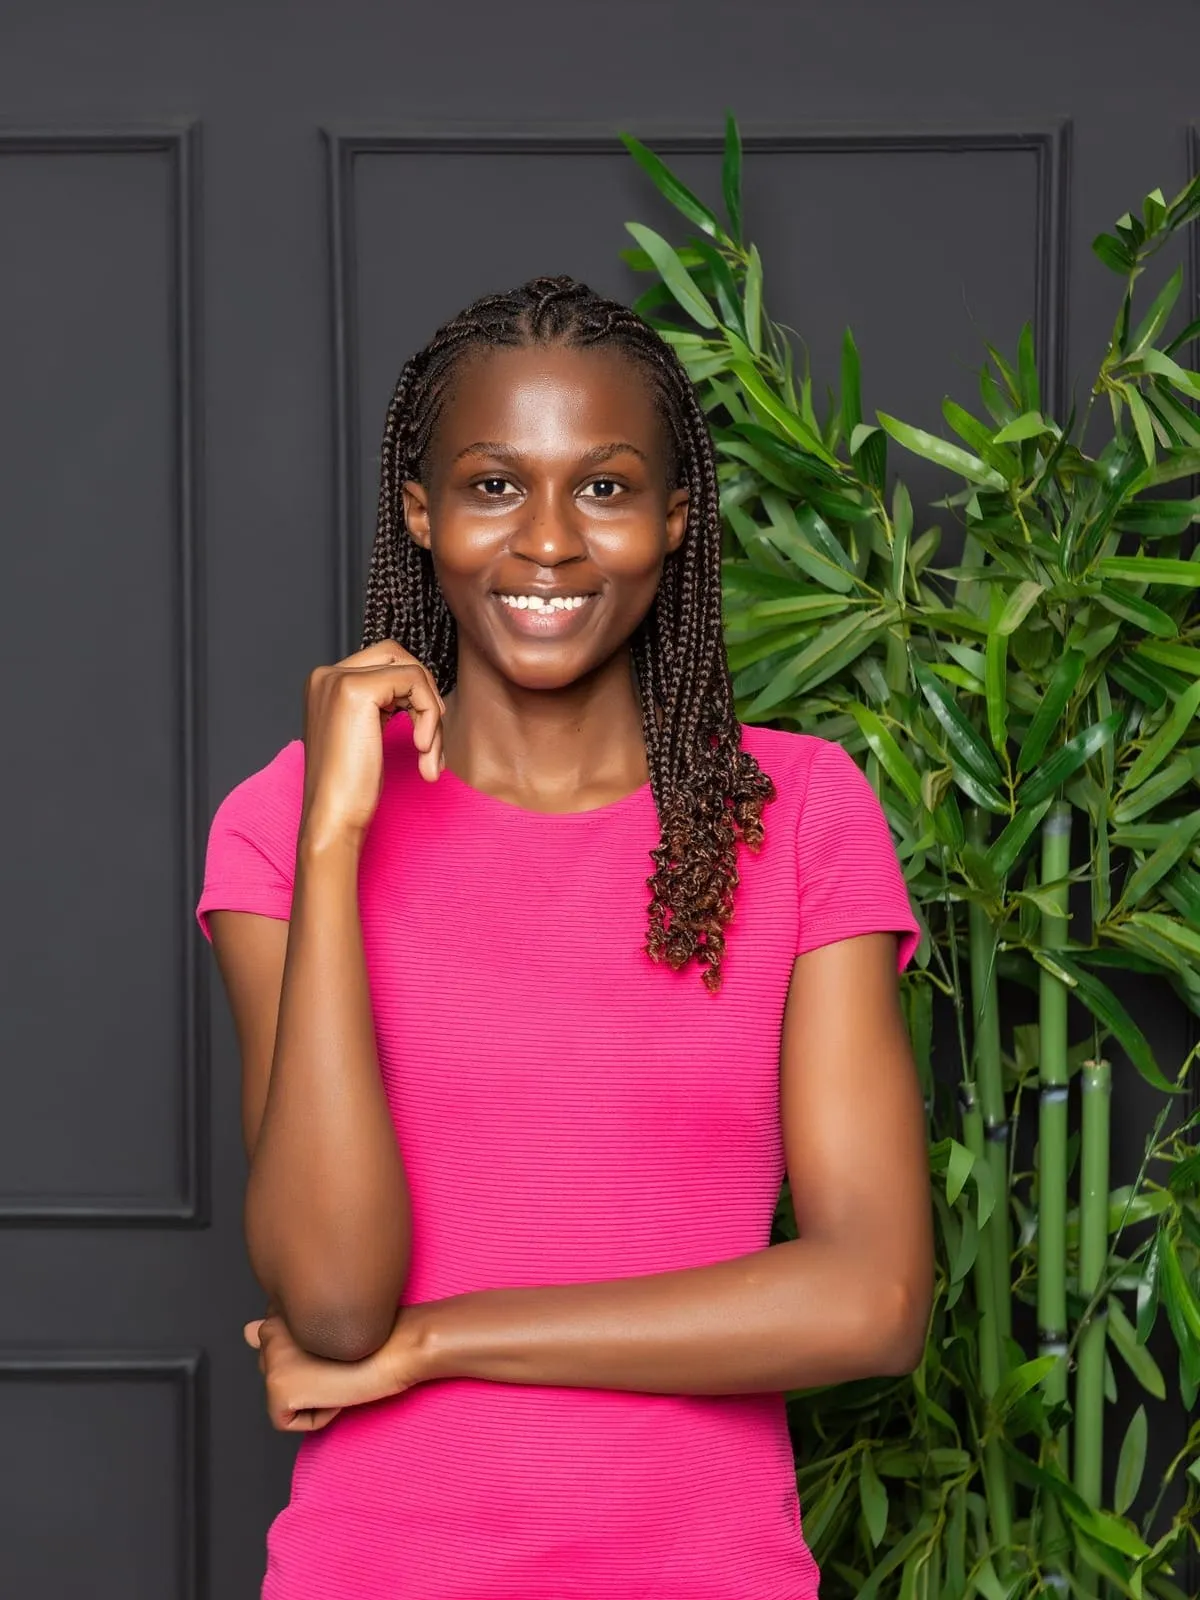
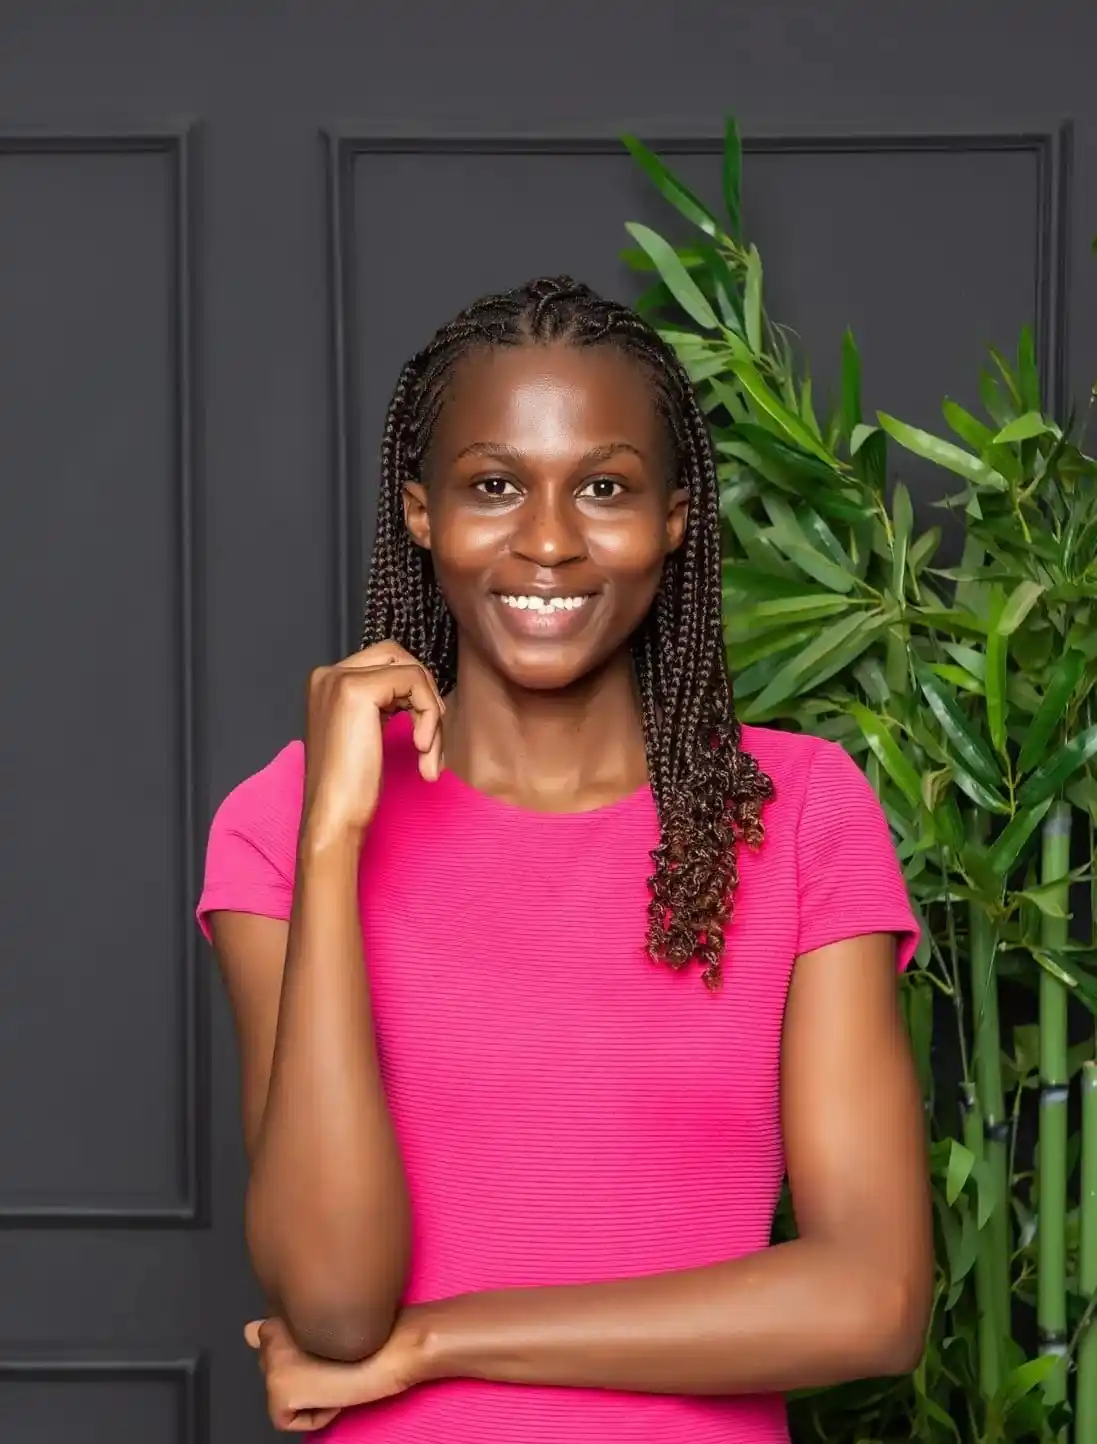
Changed and optimaized image, mobile navigation design and embedded subscirbe form

diff --git a/components/Header.tsx b/components/Header.tsx
@@ -5,7 +5,38 @@ import Image from 'next/image';
 import Link from 'next/link';
 import BackToTop from './BackToTop';
 
+import { IoNewspaperOutline  } from 'react-icons/io5';
+import { CgProfile } from "react-icons/cg";
+import { HiUserGroup } from "react-icons/hi2";
+import { TfiEmail } from "react-icons/tfi";
+
+
+
 import {motion} from 'framer-motion'
+
+const navs  = [
+  {
+    name: "Newsletter",
+    url : "#newsletter",
+    icon: <IoNewspaperOutline/>
+  },
+  {
+    name: "About ",
+    url : "#about",
+    icon: <CgProfile/>
+  },
+  {
+    name: "Partnership",
+    url : "#partnership",
+    icon: <HiUserGroup/> 
+  },
+  {
+    name: "Contact",
+    url : "#contact",
+    icon: <TfiEmail/> 
+  }
+
+] 
 
 
 
@@ -35,7 +66,7 @@ const Header = () => {
   };
 
   return (
-    <header  id="home" className=" bg-[#FFFFFF] h-[10vh] min-h-10 w-screen  fixed z-45">
+    <header  id="home" className=" bg-[#FFFFFF] max-h-[10vh] p- min-h-10 w-screen pb-2 fixed z-45">
 
 
     <div className="container mx-auto navbar justify-between items-center">
@@ -51,7 +82,7 @@ const Header = () => {
               />
 
               
-              <p className={`text-xl font-bold `}>The Big Bank Theory</p>
+              <p className={` text-md md:text-xl font-bold `}>The Big Bank Theory</p>
             </Link>
           </div>
           
@@ -112,6 +143,7 @@ const Header = () => {
               </Link>
 
               <div className="drawer drawer-end ">
+
                 <input 
                   id="my-drawer" 
                   type="checkbox" 
@@ -120,6 +152,8 @@ const Header = () => {
                 />
                 
                 <div className="drawer-content lg:hidden">
+                  
+
                   <label htmlFor='my-drawer'
                     className=" btn-ghost btn-xl btn-circle swap swap-rotate z-55"
                     onClick={toggleDrawer}
@@ -127,7 +161,7 @@ const Header = () => {
                   >
                     {isOpen ? (
                       <svg
-                        className="fill-[#F6C103]"
+                        className="fill-black"
                         xmlns="http://www.w3.org/2000/svg"
                         width="30"
                         height="30"
@@ -149,52 +183,41 @@ const Header = () => {
                   </label>
                 </div>
 
-          <div className="drawer-side z-50 w-screen h-screen">
+          <div className="drawer-side z-50 w-screen h-screen p-0">
             <label
               htmlFor="my-drawer"
               className="drawer-overlay"
               onClick={closeDrawer}
             />
-            <ul className="menu bg-gray-950 p-4 px-10 w-screen min-h-full  text-base-100 justify-center">
-              <div className='mx-auto flex justify-center items-center  mb-15 gap-2'>
+            <ul className="menu bg-[#ffffff]  w-screen  h-screen text-base-100 p-0">
+            <svg className="min-h-28 " xmlns="http://www.w3.org/2000/svg" viewBox="0 0 1440 320"><path fill="#FFDE59" fill-opacity="1" d="M0,96L30,96C60,96,120,96,180,128C240,160,300,224,360,261.3C420,299,480,309,540,272C600,235,660,149,720,144C780,139,840,213,900,224C960,235,1020,181,1080,154.7C1140,128,1200,128,1260,144C1320,160,1380,192,1410,208L1440,224L1440,0L1410,0C1380,0,1320,0,1260,0C1200,0,1140,0,1080,0C1020,0,960,0,900,0C840,0,780,0,720,0C660,0,600,0,540,0C480,0,420,0,360,0C300,0,240,0,180,0C120,0,60,0,30,0L0,0Z"></path></svg>
+            
+              <div className=' w-full  flex items-center justify-center mb-12 gap-2'>
                 
-                <Image src="/images/logo_yellow.webp" alt="Logo" width={40} height={40} className=''/>
-                <p>The Big Bank Theory</p>
+                  <Image src="/images/logo.webp" alt="Logo" width={40} height={40} />
+                <p className='text-[#010101]'>The Big Bank Theory</p>
 
               </div>
 
-              <li>
-                <Link href="#newsletter" onClick={handleLinkClick} className='text-5xl font-semibold transition-all'>
-                  Newsletter
-                </Link>
-              </li>
-
-              <li>
-                <Link href="#about" onClick={handleLinkClick} className='text-5xl font-semibold'>
-                  <label htmlFor="my-drawer" >
-                    About
-                  </label>
-                </Link>
-              </li>
-
-              <li>
-                <Link href="#partnership" onClick={handleLinkClick} className='text-5xl font-semibold'>
-                  <label htmlFor="my-drawer" className='drawer-button'>
-                    Partnership
-                  </label>
-                </Link>
-              </li>
-
-              <li>
-                <Link href="#contact" onClick={handleLinkClick} className='text-5xl font-semibold'>
-                  <label htmlFor="my-drawer" className='drawer-button hover:text-red-600'>
-                    Contact
-                  </label>
-                </Link>
-              </li>
+              {navs.map((nav) => (
+                <li key={nav.name}>
+                  <Link href={nav.url} onClick={handleLinkClick} className='text-4xl font-semibold text-[#010101]'>
+                    {nav.icon}
+                    <label htmlFor="my-drawer" className='drawer-button'>
+                      {nav.name}
+                    </label>
+                  </Link>
+                </li>
+              ))}
               
               {/* <button className='btn-xl'>Subscribe</button> */}
+
             </ul>
+
+              {/* <svg xmlns="http://www.w3.org/2000/svg" viewBox="0 0 1440 320">
+  <path fill="#FFDE59" fill-opacity="1" d="M0,96L30,96C60,96,120,96,180,128C240,160,300,224,360,261.3C420,299,480,309,540,272C600,235,660,149,720,144C780,139,840,213,900,224C960,235,1020,181,1080,154.7C1140,128,1200,128,1260,144C1320,160,1380,192,1410,208L1440,224L1440,320L1410,320C1380,320,1320,320,1260,320C1200,320,1140,320,1080,320C1020,320,960,320,900,320C840,320,780,320,720,320C660,320,600,320,540,320C480,320,420,320,360,320C300,320,240,320,180,320C120,320,60,320,30,320L0,320Z"></path>
+</svg> */}
+            
           </div>
 
       </div>

diff --git a/components/Sections/Hero.tsx b/components/Sections/Hero.tsx
@@ -3,6 +3,7 @@
 // import { useEffect } from 'react';
 import Image from 'next/image';
 import { motion } from 'framer-motion';
+import Link from 'next/link';
 
 const container = {
   hidden: {},
@@ -71,16 +72,15 @@ function Hero() {
             Money, power, and policy. The Big Bank Theory explains what’s shaping African finance and who it’s leaving behind.
           </p>
 
-          {/* <motion.button
-            className="btn bg-[#FFDE59] btn-lg border-0 w-full rounded-xl"
-            whileHover={{ backgroundColor: 'black', color: 'white' }}
-          >
-            <a href="https://the-big-bank-theory.beehiiv.com/" target="_blank" rel="noopener noreferrer">
-              Subscribe
-            </a>
-          </motion.button> */}
+          <Link href="https://the-big-bank-theory.beehiiv.com/" target="_blank" rel="noopener noreferrer">
+            <motion.button className="btn bg-[#FFDE59] btn-lg border-0 w-full rounded-xl"
+              whileHover={{ backgroundColor: 'black', color: 'white' }}
+            >
+                Subscribe
+            </motion.button>
+          </Link>
 
-      <div className="w-full ">
+      {/* <div className="w-full ">
         <iframe
           src="https://subscribe-forms.beehiiv.com/3f3a20ea-54a5-447a-9f54-1bdfc0e19586"
           className="w-full max-w-3xl "
@@ -95,7 +95,7 @@ function Hero() {
           //   boxShadow: '0 0 #0000',
           // }}
         />
-      </div>
+      </div> */}
         </motion.div>
       </motion.div>
 

diff --git a/components/Sections/Blog.tsx b/components/Sections/Blog.tsx
@@ -48,9 +48,9 @@ function Blog() {
                 <div className="container mx-auto py-20 flex gap-6 flex-wrap align-center justify-between items-center">
 
 
-                  <h1 className='text-black font-bold text-5xl h-full mx-auto bg-[#FFDE59] p-10 rounded-4xl shadow-2xl'>Newsletter</h1>
+                  {/* <h1 className='text-black font-bold md:text-3xl lg:text-5xl h-full mx-auto bg-[#FFDE59] p-8 rounded-4xl shadow-2xl'>Newsletter</h1> */}
 
-                <div className="bg-[#FFDE59] text-black rounded-2xl shadow-xl p-8 min-w-[300px] max-w-[600px] w-full transition-transform hover:scale-[1.02] hover:shadow-2xl mx-auto">
+                <div className="bg-[#FFDE59] text-black rounded-3xl shadow-xl p-8 min-w-[300px] max-w-[600px] w-full transition-transform hover:scale-[1.02] hover:shadow-2xl mx-auto">
                   <h1 className="text-3xl font-extrabold text-center mb-6">What You’ll Get</h1>
                   <ul className="space-y-6 text-lg font-medium">
                     {[

diff --git a/components/Sections/Services.tsx b/components/Sections/Services.tsx
@@ -6,11 +6,7 @@ import { motion } from 'framer-motion'
 function Services() {
 
   const services = [
-    {
-      title: "Editorial strategy and ghostwriting",
-      src: "/images/editorial.webp",
-      description: "From founder letters to whitepapers, I write with authority, warmth, and insight. Perfect for leaders with something to say."
-    },
+   
     {
       title: "Research and insight briefs",
       src: "/images/research.webp",
